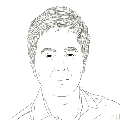
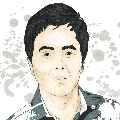
fotos de los demas sin terminar

diff --git a/css/style.css b/css/style.css
@@ -392,7 +392,7 @@ a .taller-pic:hover {
 }
 
 #sketchg1  {
-  background-image: url(../img/thumbs/soon_thumb.png);
+  background-image: url(../img/thumbs/tadeo_thumb.png);
   width: 120px;
   height: 120px;
   text-decoration: none;
@@ -413,7 +413,7 @@ a .taller-pic:hover {
 }
 
 #revit  {
-  background-image: url(../img/thumbs/soon_thumb.png);
+  background-image: url(../img/thumbs/ramon_thumb.png);
   width: 120px;
   height: 120px;
   text-decoration: none;
@@ -434,7 +434,14 @@ a .taller-pic:hover {
 }
 
 #bocetos  {
-  background-image: url(../img/thumbs/soon_thumb.png);
+  background-image: url(../img/thumbs/saldaña_thumb.png);
+  width: 120px;
+  height: 120px;
+  text-decoration: none;
+}
+
+#bocetos2  {
+  background-image: url(../img/thumbs/neri_thumb.png);
   width: 120px;
   height: 120px;
   text-decoration: none;
@@ -448,20 +455,20 @@ a .taller-pic:hover {
 }
 
 #geodesc  {
-  background-image: url(../img/thumbs/soon_thumb.png);
+  background-image: url(../img/thumbs/martin_thumb.png);
   width: 120px;
   height: 120px;
   text-decoration: none;
 }
 #maquetasbasicas {
-  background-image: url(../img/thumbs/soon_thumb.png);
+  background-image: url(../img/thumbs/sergio_thumb.png);
   width: 120px;
   height: 120px;
   text-decoration: none;
 }
 
 #presentacion {
-  background-image: url(../img/thumbs/soon_thumb.png);
+  background-image: url(../img/thumbs/cristianp_thumb.png);
   width: 120px;
   height: 120px;
   text-decoration: none;

diff --git a/presentacion.html b/presentacion.html
@@ -65,7 +65,7 @@
           </div>
           <div class="taller">
             <div class="tallerista-pic">
-              <img src="img/large/dulce_large.png">
+              <img src="img/large/cristianp_large.png">
             </div>
             <div class="tallerista raleway">
               <p>Por: Christian Adan Salazar Montaño</p>

diff --git a/revit.html b/revit.html
@@ -65,7 +65,7 @@
           </div>
           <div class="taller">
             <div class="tallerista-pic">
-              <img src="img/large/sinasignar_large.png">
+              <img src="img/large/ramon_large.png">
             </div>
             <div class="tallerista raleway">
               <p>Por: Ramón Ignacio Meza González</p>

diff --git a/sketch1.html b/sketch1.html
@@ -65,7 +65,7 @@
           </div>
           <div class="taller">
             <div class="tallerista-pic">
-              <img src="img/large/sinasignar_large.png">
+              <img src="img/large/tadeo_large.png">
             </div>
             <div class="tallerista raleway">
               <p>Por: Javier Tadeo Duarte de la Ree</p>

diff --git a/talleres.html b/talleres.html
@@ -151,7 +151,7 @@
             </div>
              <a class="fjalla" href="#">
               <div class="content_link">
-                <div id="bocetos" class="taller-pic">                
+                <div id="bocetos2" class="taller-pic">                
                 </div>
                 <p id="prueba">Uriel Neri</p>
 

diff --git a/maquetasbasicas.html b/maquetasbasicas.html
@@ -62,7 +62,7 @@
           </div>
           <div class="taller">
             <div class="tallerista-pic">
-              <img src="img/large/sinasignar_large.png">
+              <img src="img/large/sergio_large.png">
             </div>
             <div class="tallerista raleway">
               <p>Por: Sergio Baltierrez</p>
